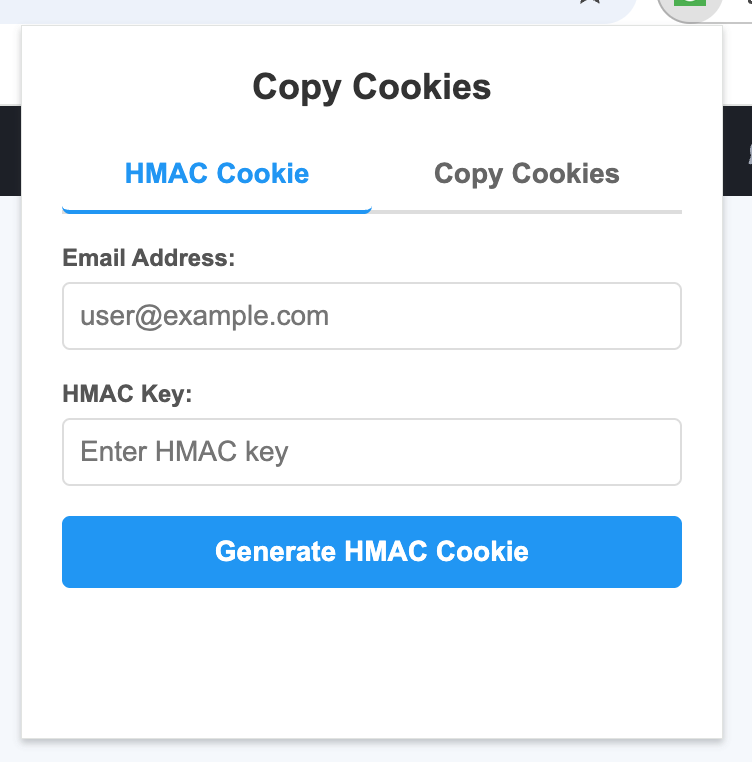
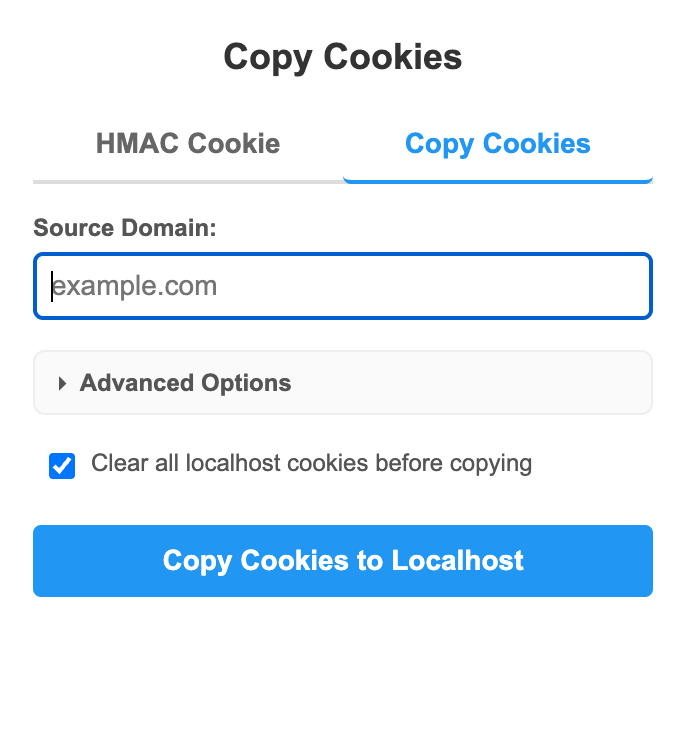
Update README for current features (#14)
* Update UI images

* Update README for current features

Changed region(s): [[0.0, 0.062, 1.0, 0.9919], [0.8571, 0.0, 1.0, 0.031]]

diff --git a/README.md b/README.md
@@ -1,6 +1,6 @@
 # Copy Cookies - Chrome Extension
 
-**Effortlessly copy cookies from any website to localhost for seamless development and testing.**
+**Effortlessly copy cookies from any website to localhost and generate HMAC cookies for seamless development and testing.**
 
 | | |
 |:---:|:---:|
@@ -8,14 +8,15 @@
 
 ## 🚀 What it does
 
-Copy Cookies is a developer-friendly Chrome extension that simplifies the process of copying cookies from any domain to localhost. Perfect for developers who need to test applications with real user session data or authentication cookies.
+Copy Cookies is a developer-friendly Chrome extension that simplifies copying cookies from any domain to localhost and generating HMAC cookies on demand. It is built for developers who need to test applications with real session data or authentication cookies.
 
 ## ✨ Key Features
 
 - **🎯 Smart Domain Detection** - Automatically detects and populates the current website's domain
 - **🔄 One-Click Cookie Transfer** - Copy all cookies from any domain to localhost instantly
+- **🔐 HMAC Cookie Generator** - Create an `_auth_passcode_hmac` cookie for the active domain
 - **✅ Real-time Status Updates** - Get immediate feedback on the copying process
-- **🛡 Input Validation** - Built-in domain name validation for error-free operation
+- **🛡 Input Validation** - Built-in domain name and email validation for error-free operation
 - **🔧 Cookie Attribute Handling** - Properly handles httpOnly, sameSite, and other cookie attributes
 - **🎨 Clean, Intuitive Interface** - Simple and user-friendly design
 
@@ -30,9 +31,22 @@ Copy Cookies is a developer-friendly Chrome extension that simplifies the proces
 
 1. **Navigate** to any website in Chrome
 2. **Click** the Copy Cookies extension icon in your toolbar
-3. **Verify** the auto-populated domain (or edit if needed)
-4. **Click** "Copy Cookies to Localhost"
-5. **Done!** All cookies are now available on localhost
+3. **Choose** the Copy Cookies tab
+4. **Verify** the auto-populated domain (or edit if needed)
+5. **Optionally** expand Advanced Options to set cookie expiration
+6. **Click** "Copy Cookies to Localhost"
+7. **Done!** All cookies are now available on localhost
+
+### Generate an HMAC Cookie
+
+1. **Choose** the HMAC Cookie tab
+2. **Enter** your email address and HMAC key
+3. **Click** "Generate HMAC Cookie" to set `_auth_passcode_hmac` on the current domain
+
+### Advanced Options
+
+- **Cookie Expiration** - Keep the original expiration or choose a development/testing/session/custom duration
+- **Clear Localhost First** - Wipe existing localhost cookies before copying when enabled
 
 ## 🔒 Privacy & Security
 
@@ -56,6 +70,7 @@ Copy Cookies is a developer-friendly Chrome extension that simplifies the proces
 - The extension requires "cookies" permission to read and write cookies
 - Cookies are copied to `http://localhost` (not HTTPS)
 - Secure cookies from HTTPS sites are converted to non-secure for localhost compatibility
+- Success messages include a quick link to open localhost
 - The extension handles various cookie attributes including httpOnly and sameSite
 
 ### Project Structure
@@ -81,6 +96,7 @@ copy-cookies/
 - **`cookies`** - Read cookies from source domains and write to localhost
 - **`activeTab`** - Work with the current tab
 - **`tabs`** - Query the current tab's URL for auto-populating the domain
+- **`storage`** - Store recent HMAC settings
 - **`host_permissions`** - Access cookies from any HTTP/HTTPS domain
 
 ## 🐛 Troubleshooting
